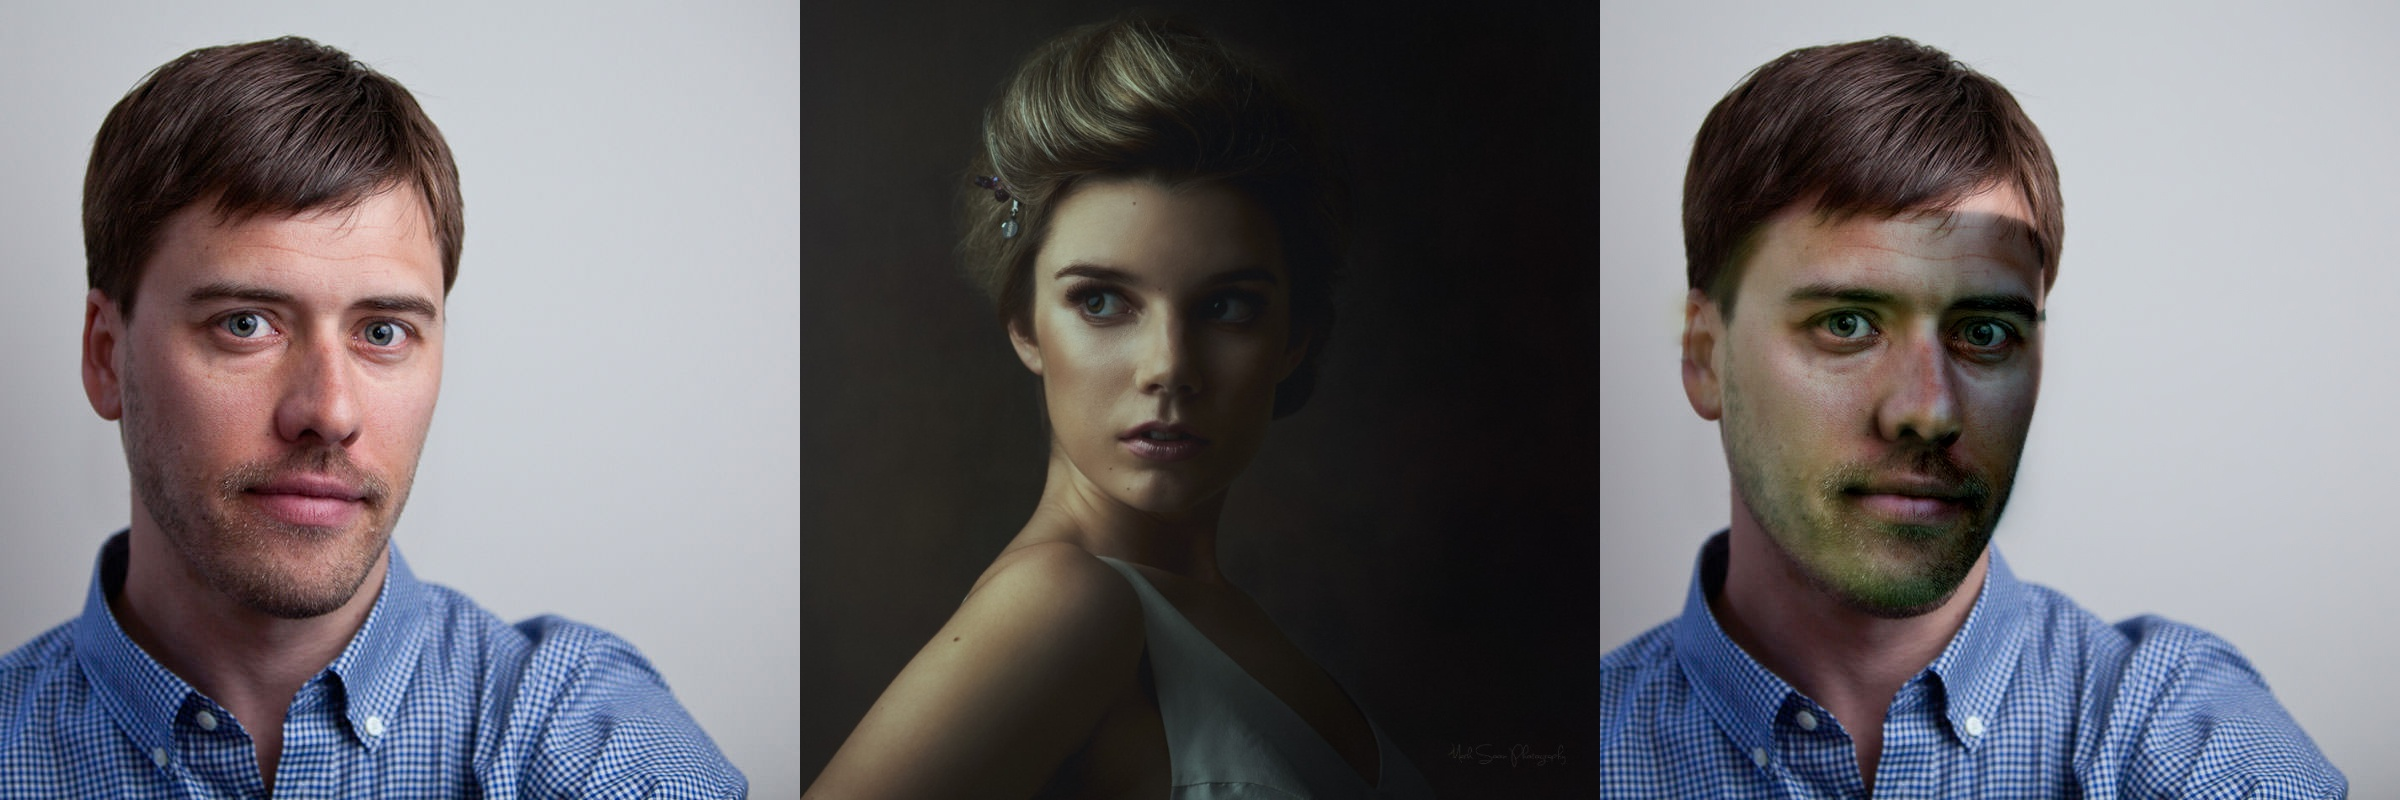
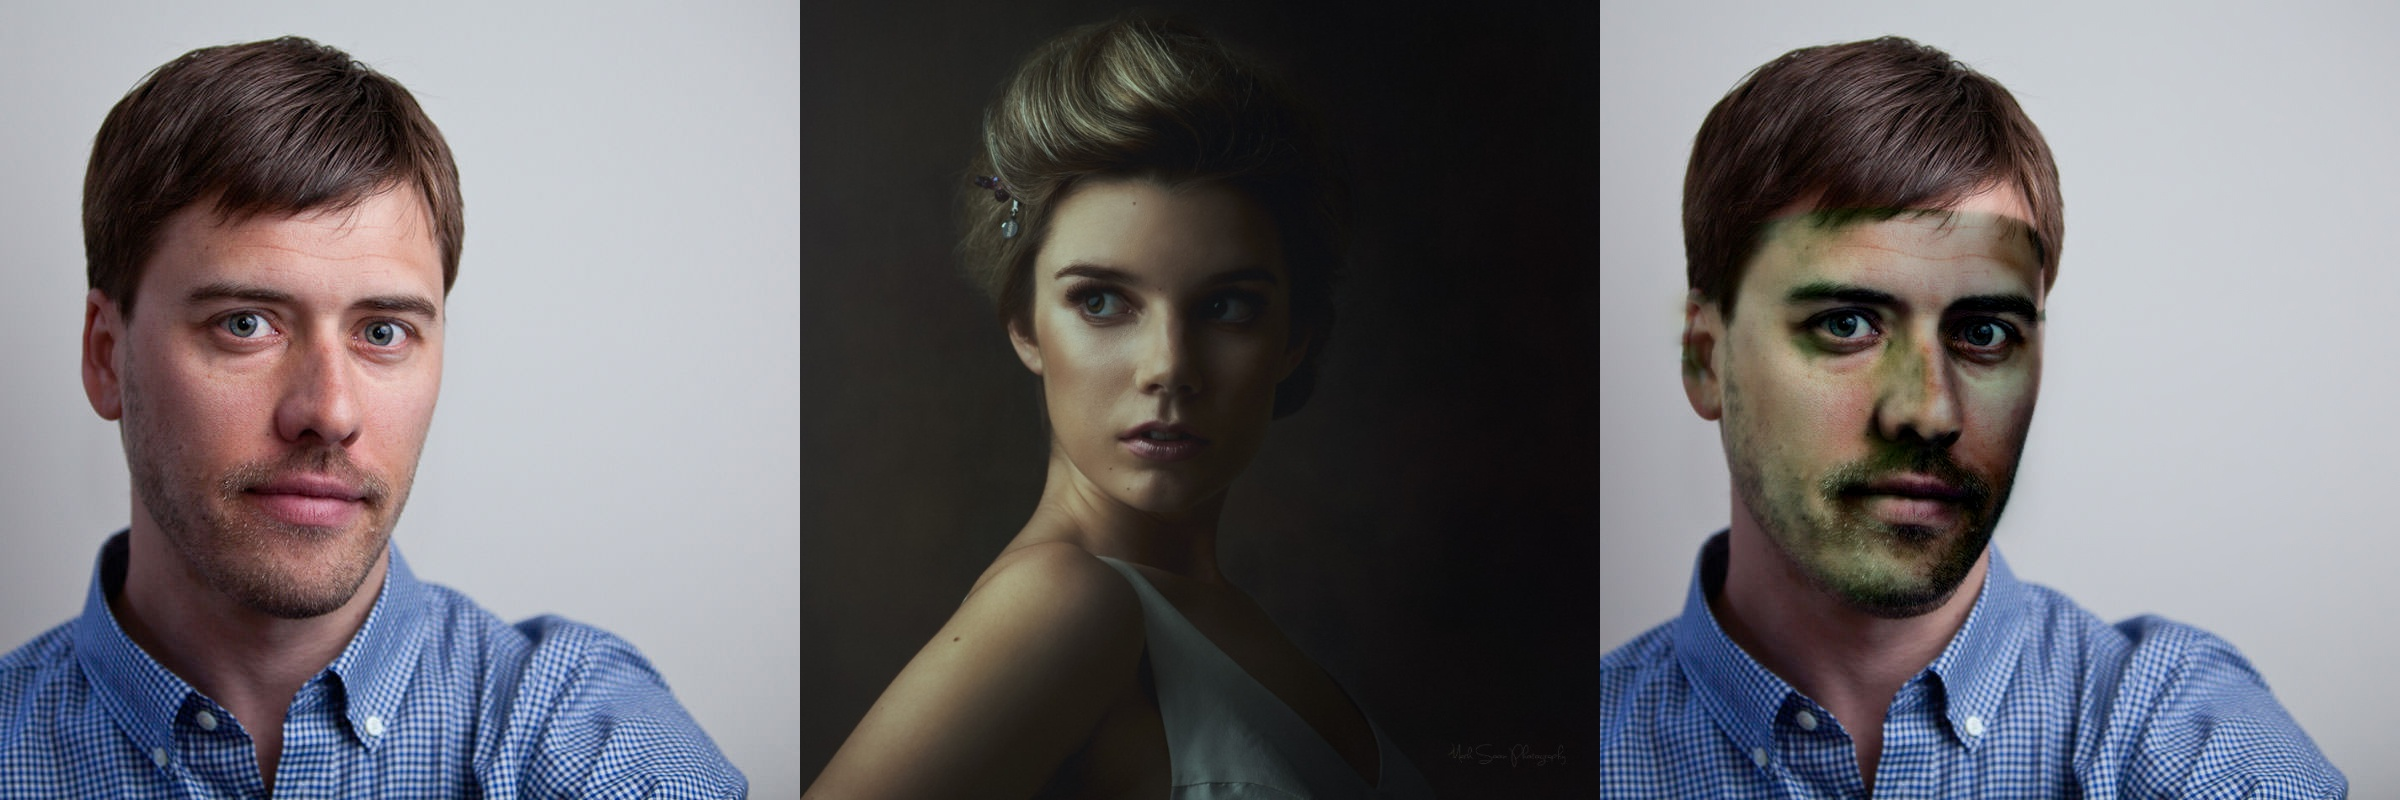
more examples

Changed region(s): [[0.6875, 0.25, 0.8438, 0.75]]

diff --git a/relight.py b/relight.py
@@ -73,13 +73,14 @@ class Relight:
         normals[self.triangles[:,2]] += n
         _normalize_v3(normals)
         return normals
-    def get_pos(self, img_arr=None):
+    def get_pos(self, img_arr=None, img_info=None):
         '''get 3d position map by PRNet.
         
         Args:
             img_arr: face img to extract 3d face position map.
+            img_info: [x1, x2, y1, y2]
         '''
-        pos = self.prn.process(img_arr)
+        pos = self.prn.process(img_arr, image_info=img_info)
         return pos
     def regrain(self, img_arr_in=None, img_arr_col=None):
         '''Regrain algorithm implemented in python_color_transfer.'''
@@ -163,9 +164,10 @@ def demo():
     # path
     cur_dir = os.path.dirname(os.path.abspath(__file__))
     img_folder = os.path.join(cur_dir, 'imgs')
-    img_names = ['portrait_s1.jpg', 'portrait_s1.jpg']
-    ref_names = ['portrait_r1.jpg', 'portrait_r2.jpg']
-    out_names = ['portrait_o1.jpg', 'portrait_o2.jpg']
+    img_num = 6
+    img_names = ['portrait_s1.jpg' for _ in range(img_num)]
+    ref_names = ['portrait_r{}.jpg'.format(i) for i in range(1, 1+img_num)]
+    out_names = ['portrait_o{}.jpg'.format(i) for i in range(1, 1+img_num)]
     img_paths = [os.path.join(img_folder, x) for x in img_names]
     ref_paths = [os.path.join(img_folder, x) for x in ref_names]
     out_paths = [os.path.join(img_folder, x) for x in out_names]

diff --git a/README.md b/README.md
@@ -6,16 +6,36 @@ A python implementation of [portrait lighting transfer using a mass transport ap
 input img | reference img | relighting img
 ![img](imgs/portrait_o1.jpg)
 ![img](imgs/portrait_o2.jpg)
+![img](imgs/portrait_o3.jpg)
+![img](imgs/portrait_o4.jpg)
+![img](imgs/portrait_o5.jpg)
+![img](imgs/portrait_o6.jpg)
 
 # Run
 ```bash
 /root/python-portrait-relight/imgs/portrait_s1.jpg: 800x800x3
 /root/python-portrait-relight/imgs/portrait_r1.jpg: 873x799x3
-relight time: 33.05
+relight time: 19.50
 
 /root/python-portrait-relight/imgs/portrait_s1.jpg: 800x800x3
 /root/python-portrait-relight/imgs/portrait_r2.jpg: 950x950x3
-relight time: 35.80
+relight time: 19.54
+
+/root/python-portrait-relight/imgs/portrait_s1.jpg: 800x800x3
+/root/python-portrait-relight/imgs/portrait_r3.jpg: 1024x683x3
+relight time: 17.38
+
+/root/python-portrait-relight/imgs/portrait_s1.jpg: 800x800x3
+/root/python-portrait-relight/imgs/portrait_r4.jpg: 2403x1927x3
+relight time: 55.92
+
+/root/python-portrait-relight/imgs/portrait_s1.jpg: 800x800x3
+/root/python-portrait-relight/imgs/portrait_r5.jpg: 1024x744x3
+relight time: 18.34
+
+/root/python-portrait-relight/imgs/portrait_s1.jpg: 800x800x3
+/root/python-portrait-relight/imgs/portrait_r6.jpg: 981x774x3
+relight time: 18.94
 ```
 Most time is spent on PRNet, which rely on dlib to detect human faces. 
 Replacing the face detector will dramatically improve the speed.
